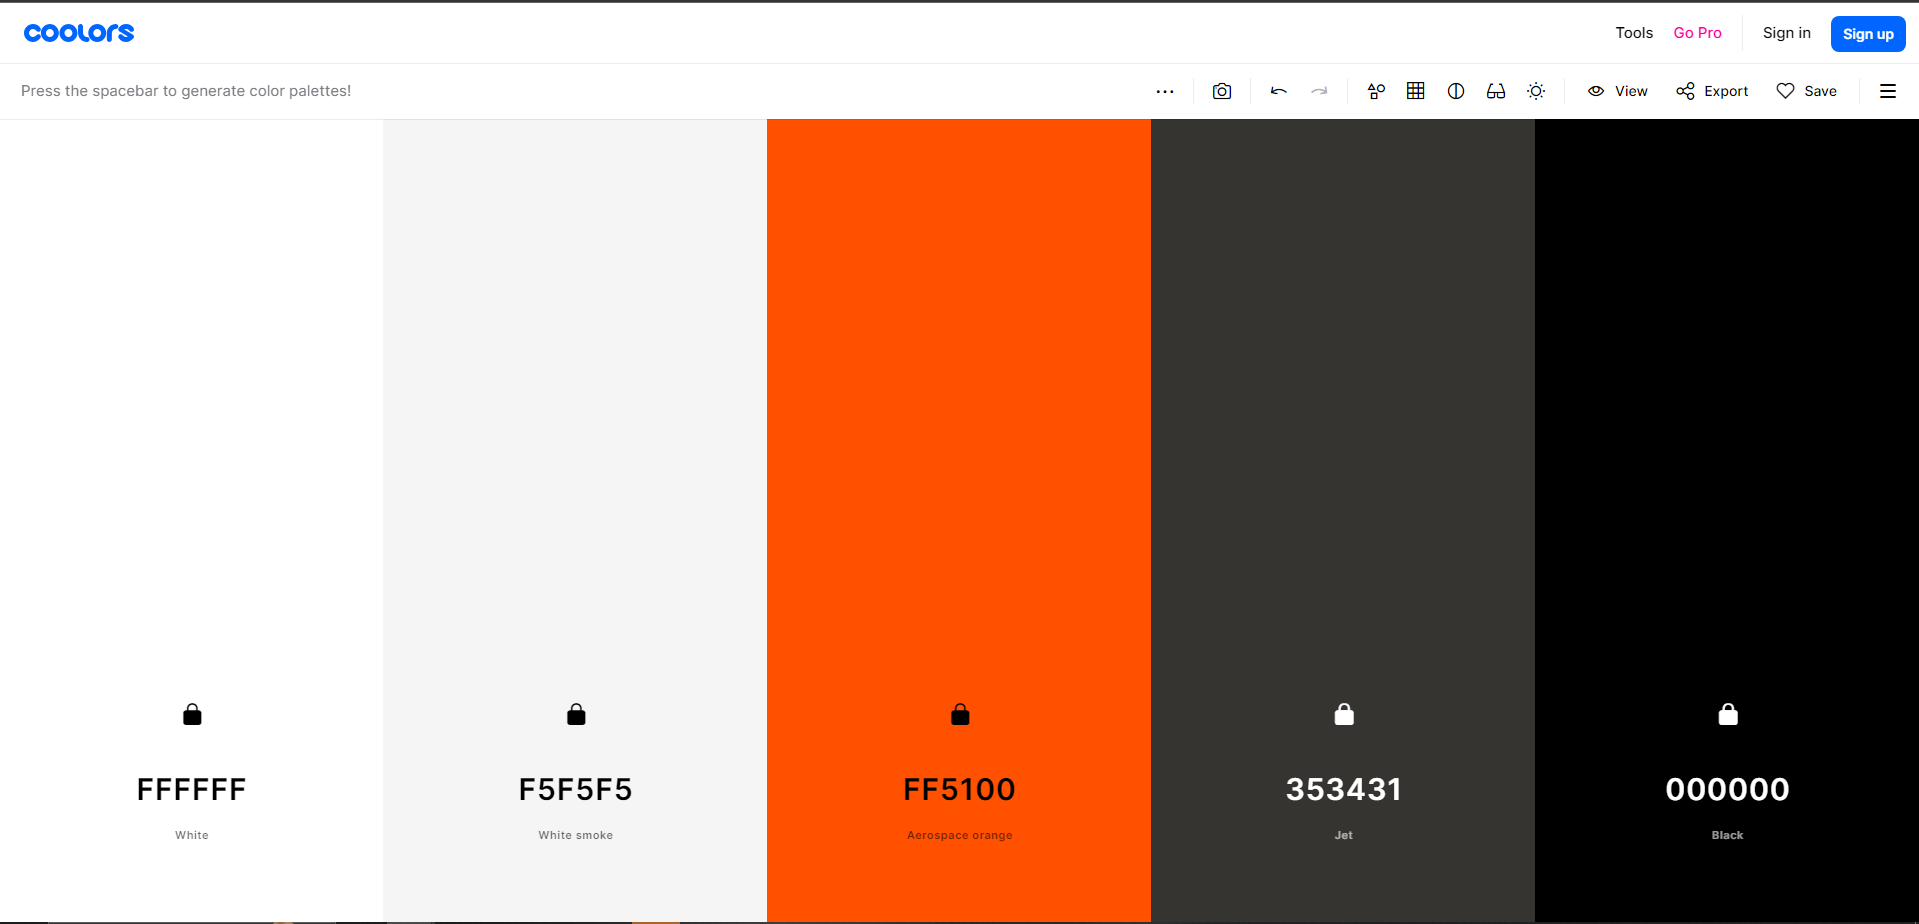
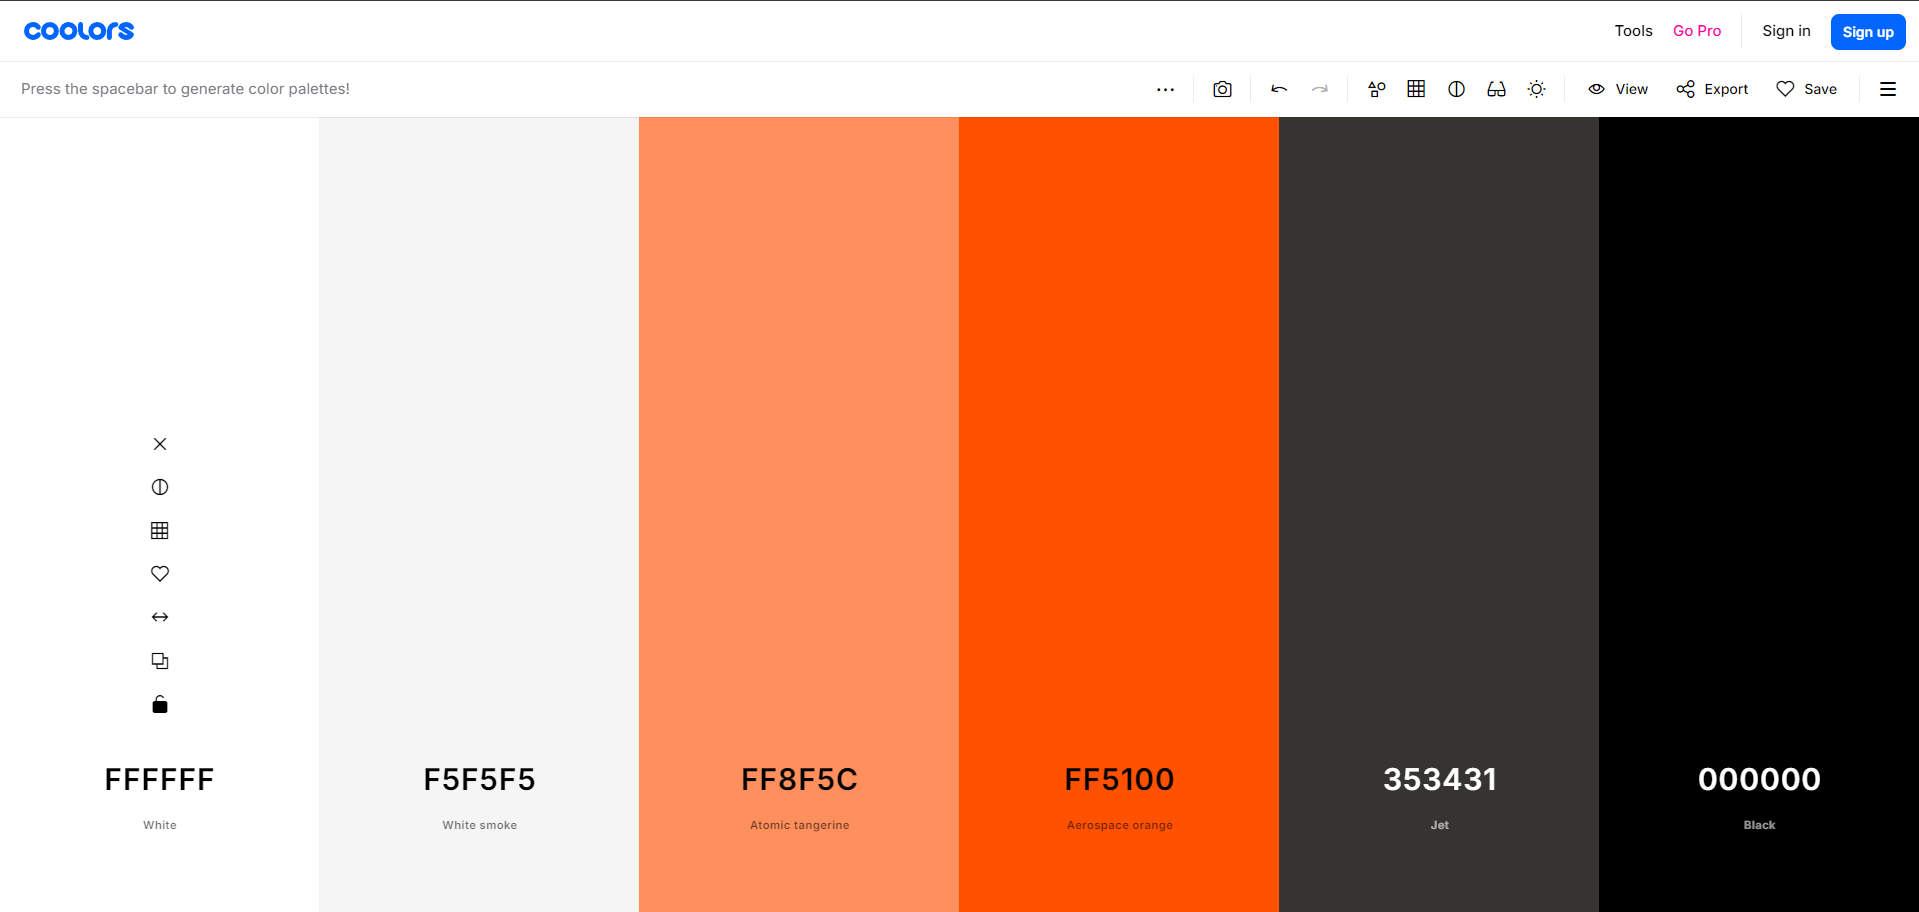
fix: update coolors link

diff --git a/static/css/base.css b/static/css/base.css
@@ -162,7 +162,7 @@ nav {
     width: 30%;
 }
 
-.ratings i{
+.ratings i {
     color: var(--primary-color-highlight);
 }
 
@@ -246,7 +246,6 @@ transition: 0.3s;
     transition: 0.3s;
 }
 
-
 .closeerrorbtn {
     font-weight: bold;
     float: right;
@@ -259,7 +258,6 @@ transition: 0.3s;
 .closeerrorbtn:hover {
     color: #ffffff;
 }
-
 
 /* When moving the mouse over the close button */
 .closebtn:hover {
@@ -306,33 +304,6 @@ color: black;
     box-shadow: 0 4px 8px rgba(0, 0, 0, 0.1);
 }
 
-@media(max-width: 425px) {
-    .user-content{
-        margin-top: 45px;
-    }
-}
-
-@media (min-width: 576px) {
-    .about-text, .coach-desc {
-        font-size: 1.25rem;
-    }
-}
-
-@media (min-width: 992px) {
-    .about-text {
-        font-size: 1.5rem;
-    }
-
-    .user-content{
-        margin-top: 45px;
-    }
-}
-
-@media (min-width: 1200px) {
-    .pt-card-desc {
-        font-size: 16px !important;
-    }
-}
 
 /*General Card Style*/
 .jb-fit-card {
@@ -379,7 +350,7 @@ color: black;
 }
 
 /* Reset Done Styling*/
-.info-container{
+.info-container {
     background-color: rgba(119, 136, 153, 0.208);
 }
 
@@ -387,17 +358,45 @@ color: black;
     max-width: 350px;
 }
 
-.reset-info-icon{
+.reset-info-icon {
     font-size: 20px;
     color: var(--primary-color-highlight);
     margin-top: 20px;
 }
 
-.checkout-success-icon{
+.checkout-success-icon {
     font-size: 50px;
 }
 
 /* Plans Section */
-.training-plans-find-out-more-container{
+.training-plans-find-out-more-container {
     background-color: var(--primary-color);
+}
+
+@media(max-width: 425px) {
+    .user-content{
+        margin-top: 45px;
+    }
+}
+
+@media (min-width: 576px) {
+    .about-text, .coach-desc {
+        font-size: 1.25rem;
+    }
+}
+
+@media (min-width: 992px) {
+    .about-text {
+        font-size: 1.5rem;
+    }
+
+    .user-content{
+        margin-top: 45px;
+    }
+}
+
+@media (min-width: 1200px) {
+    .pt-card-desc {
+        font-size: 16px !important;
+    }
 }

diff --git a/README.md b/README.md
@@ -49,7 +49,7 @@ The colour scheme for the JB Fit website has been thoughtfully selected to creat
 - `#f5f5f5` used as the  primary background colour.
 - `#353431` used as the secondary background colour, primarily in the navbar and footer.
 
-I used [coolors.co](https://coolors.co/ffffff-f5f5f5-ff5100-353431-000000) to generate my colour palette.
+I used [coolors.co](https://coolors.co/ffffff-f5f5f5-ff8f5c-ff5100-353431-000000) to generate my colour palette.
 
 ![screenshot](documentation/coolors.png)
 
